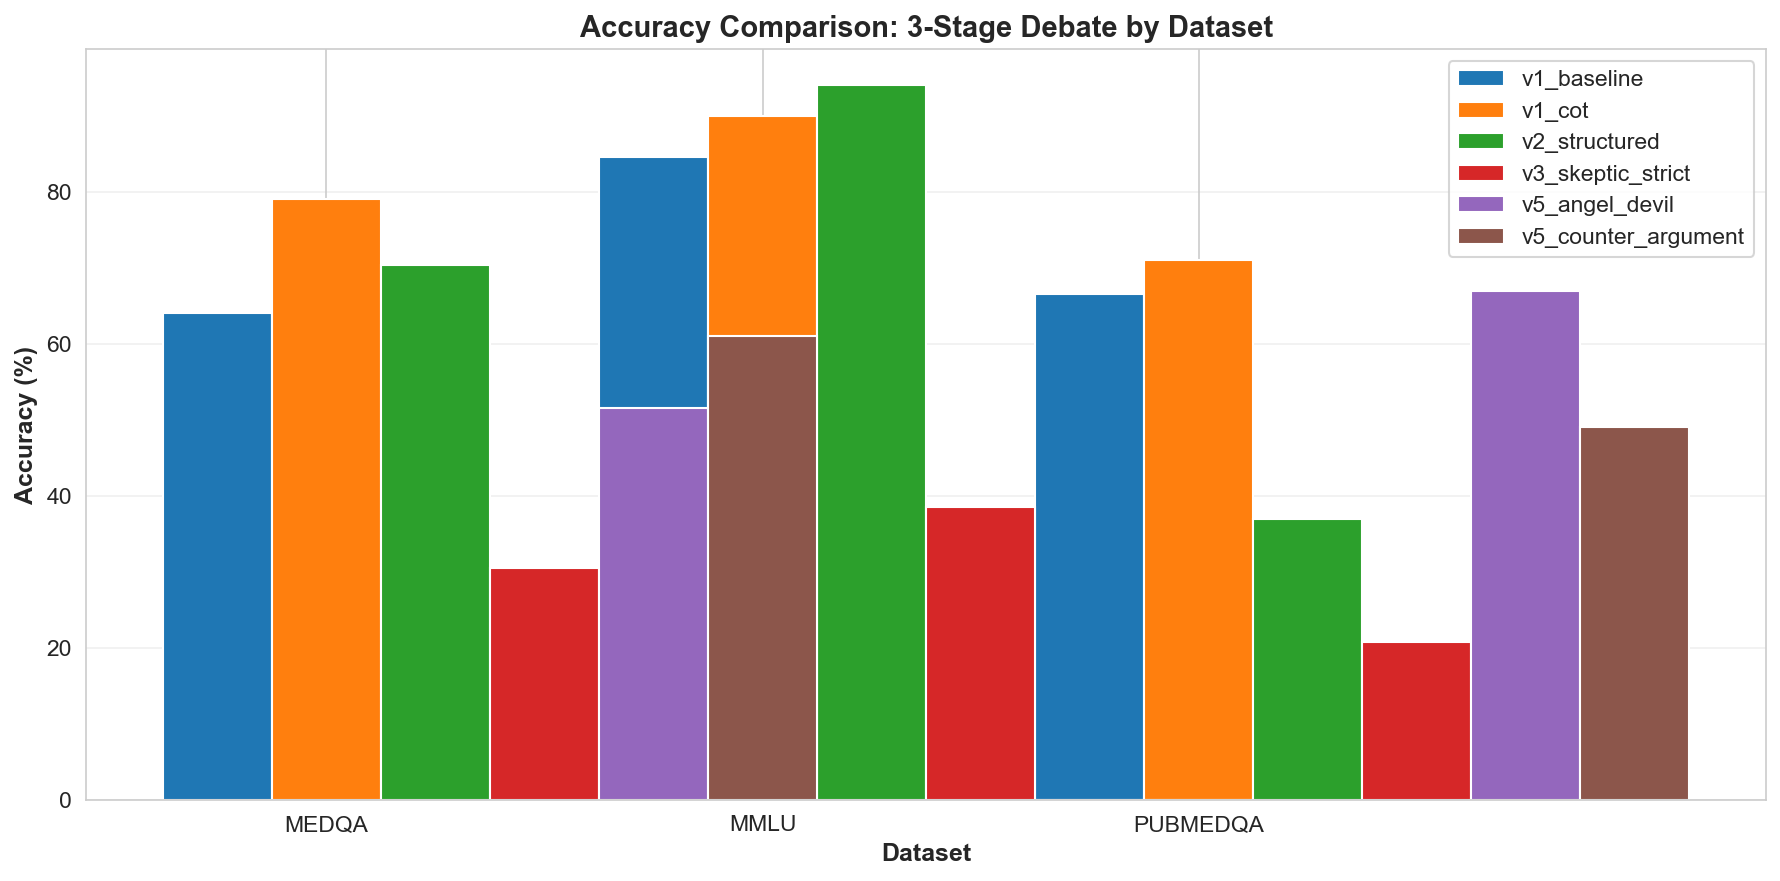
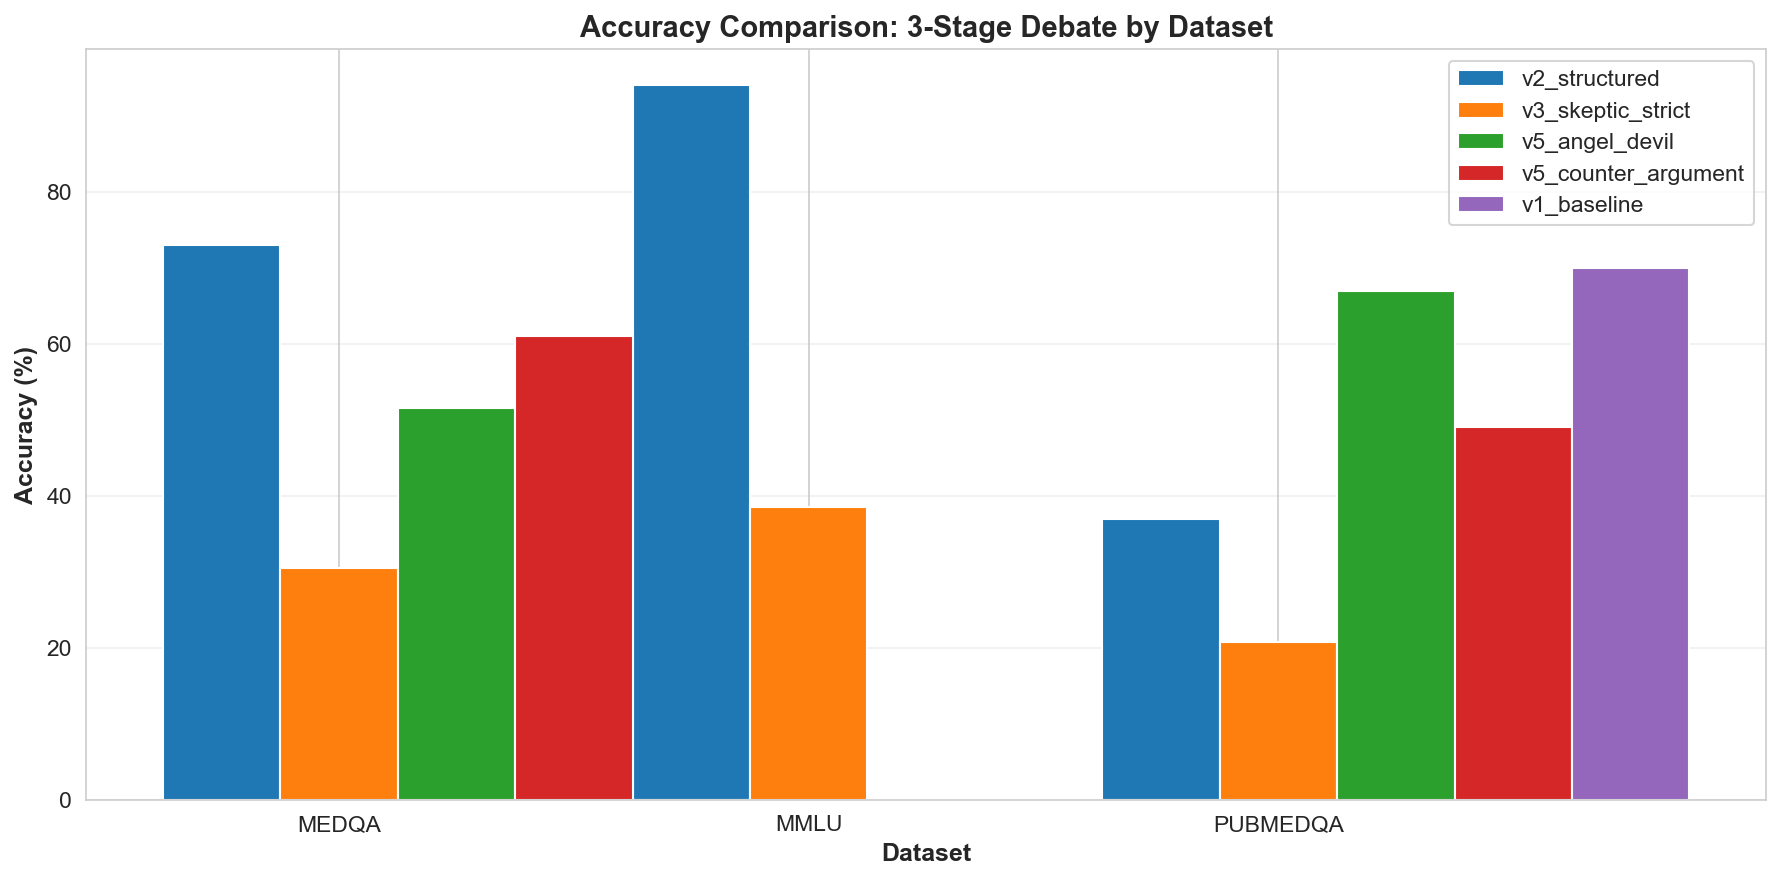
Update analysis script to properly filter v5 experiments by setup type
- Modified create_ppt_results_table.py to filter v5_angel_devil by debate vs heterogeneous setup
- Regenerated PPT_MAIN_RESULTS_TABLE.csv with accurate v5 debate numbers
- All numbers now consistent across 35 3-stage experiments with proper filtering

diff --git a/analysis/scripts/create_ppt_results_table.py b/analysis/scripts/create_ppt_results_table.py
@@ -163,8 +163,8 @@ results.append({
 v5_homo = df[(df['Prompt Version'] == 'v5_angel_devil') &
              (df['Generator Model'] == df.get('Judge Model', df['Generator Model']))]
 
-pubmedqa_acc, pubmedqa_f1, pubmedqa_maybe = get_config_results('v5_angel', 'PUBMEDQA', 'v5_angel_devil', None, None)
-medqa_acc, medqa_f1, _ = get_config_results('v5_angel', 'MEDQA', 'v5_angel_devil', None, None)
+pubmedqa_acc, pubmedqa_f1, pubmedqa_maybe = get_config_results('v5_angel', 'PUBMEDQA', 'v5_angel_devil', None, 3)
+medqa_acc, medqa_f1, _ = get_config_results('v5_angel', 'MEDQA', 'v5_angel_devil', None, 3)
 avg_f1 = np.nanmean([pubmedqa_f1, medqa_f1])
 
 results.append({
@@ -177,18 +177,13 @@ results.append({
 })
 
 # 8. v5 angel-devil (hetero) - heterogeneous
-# This is harder to detect, but usually has different generator/judge models
-v5_all = df[df['Prompt Version'] == 'v5_angel_devil']
-# For MedQA heterogeneous, there should be experiments with different models
-medqa_v5 = v5_all[v5_all['Dataset'] == 'MEDQA']
-if len(medqa_v5) > 0:
-    # Try to find heterogeneous (different models)
-    hetero = medqa_v5[medqa_v5['Generator Model'] != medqa_v5.get('Skeptic Model', medqa_v5['Generator Model'])]
-    if len(hetero) > 0:
-        medqa_acc = hetero['Accuracy_num'].mean()
-        medqa_f1 = hetero['F1_Macro'].mean()
-    else:
-        medqa_acc, medqa_f1 = None, None
+# Filter for 3-stage (Heterogeneous) setup
+v5_hetero = df[(df['Prompt Version'] == 'v5_angel_devil') &
+               (df['Setup'] == '3-stage (Heterogeneous)')]
+medqa_hetero = v5_hetero[v5_hetero['Dataset'] == 'MEDQA']
+if len(medqa_hetero) > 0:
+    medqa_acc = medqa_hetero['Accuracy_num'].mean()
+    medqa_f1 = medqa_hetero['F1_Macro'].mean()
 else:
     medqa_acc, medqa_f1 = None, None
 
